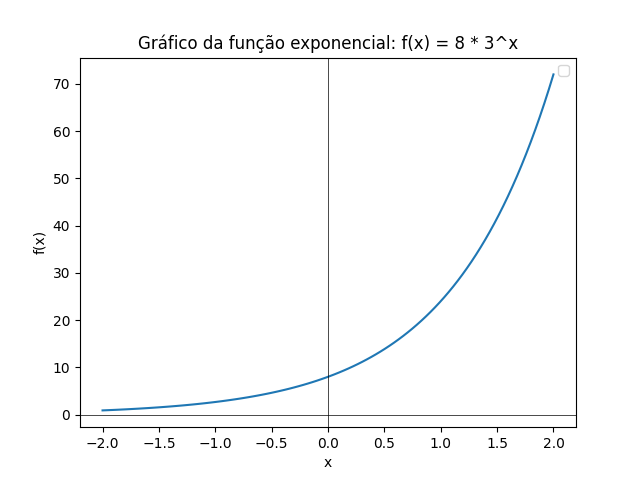
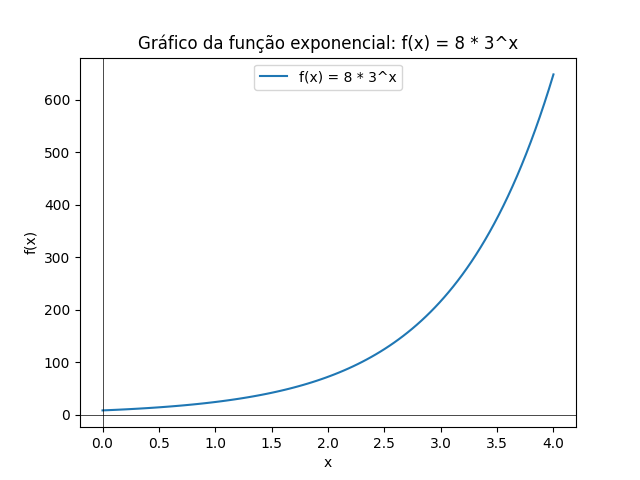
ex da aula 3

diff --git a/estudos/aula-03/ex_1.py b/estudos/aula-03/ex_1.py
@@ -1,11 +1,12 @@
-#Exercicio 1 - f(x) = 8 * 3**x
+# Exercicio 1 - f(x) = 8 * 3**x
 import numpy as np
 import matplotlib.pyplot as plt
 
-x = np.linspace(-2, 2, 100)
+x = np.linspace(0, 4, 100)
+
 y = 8 * (3 ** x)
 
-plt.plot(x, y)
+plt.plot(x, y, label='f(x) = 8 * 3^x')
 plt.axhline(0, color='black', linewidth=0.5)
 plt.axvline(0, color='black', linewidth=0.5)
 
